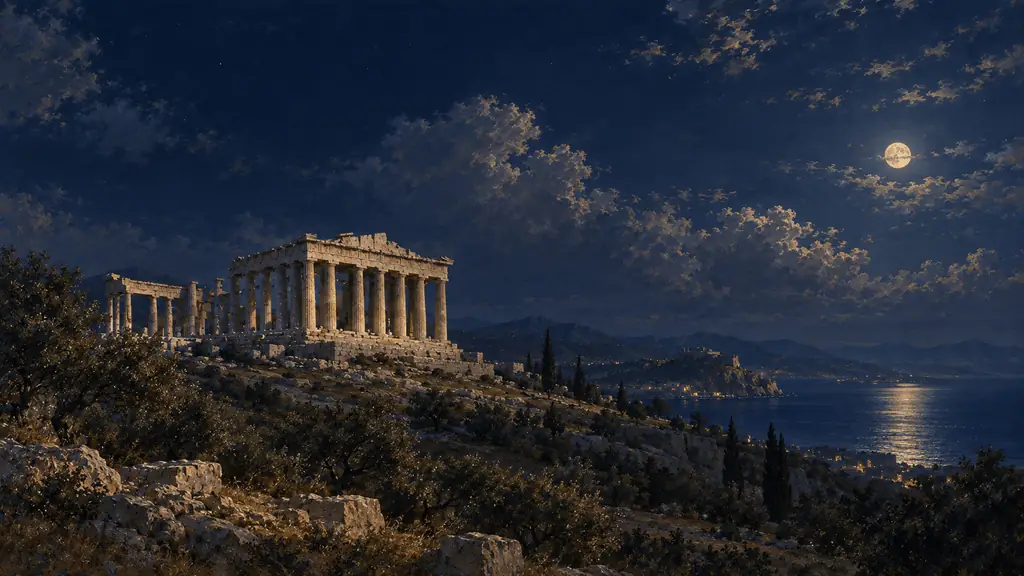
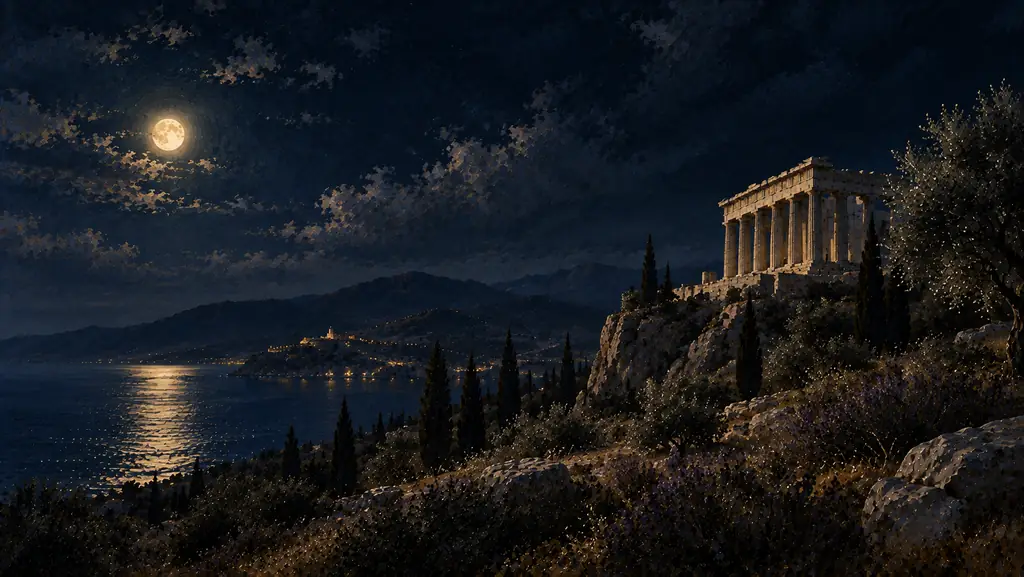
feat(home): fotografia por tema, contêineres alinhados e título reescrito
**A fotografia** vira duas versões da mesma cena: a noturna no tema escuro, a
diurna no claro. A troca é por background-image em CSS, e não por duas <img> com
uma escondida, porque o tema aqui é classe no <html> e não media query — duas
<img> baixariam as duas, 380 KB para mostrar metade. Conferido: cada tema pede
só o seu arquivo.

O texto seguiu junto. A foto diurna tem céu azul e mar brilhando, onde branco não
se lê: no claro o véu vira branco e o texto escurece.

**O alinhamento** que faltava. As grades iam de 208 a 1232 e a prosa parava em
880, o que deixava metade das seções de privacidade e de perguntas vazia. Agora
a prosa corre em duas colunas e a FAQ ocupa a largura inteira, como na
referência. Medido: as quatro seções abrem em 208 e fecham em 1232.

Duas colunas, e não um parágrafo mais largo, porque medida de leitura importa —
linha de 1024px cansa.

**O título** foi reescrito com a skill humanizer, que o autor pediu para instalar.
"Ferramentas que fazem o trabalho e somem" e "Tools that do the job and get out
of the way" tinham dois defeitos que a skill nomeia: a fórmula de tagline de SaaS,
e nenhuma informação — o leitor terminava a frase sem saber nada. A seção logo
abaixo ainda repetia a ideia com "Ferramenta que abre, faz e sai da frente".

Agora são duas frases curtas com um fato cada: "Nove ferramentas. Nenhuma quer
seu e-mail." O nove foi conferido contra ROTAS_PUBLICAS, e não há cadastro em
nenhuma delas. O travessão saiu dos dois subtítulos junto.

diff --git a/src/components/home/Hero.tsx b/src/components/home/Hero.tsx
@@ -48,40 +48,28 @@ export function Hero({
 
   return (
     <div className="relative">
-      {/* A fotografia e o que a escurece. `object-cover` com foco à direita
-          mantém a lua e o mar visíveis quando a tela estreita. */}
+      {/* A fotografia e o que a torna legível. Duas versões da mesma cena: a
+          noturna no tema escuro, a diurna no claro — a troca é por CSS, em
+          globals.css, para o navegador baixar só uma. */}
       <div aria-hidden="true" className="absolute inset-x-0 top-0 h-[760px] overflow-hidden sm:h-[820px]">
-        <picture>
-          <source media="(max-width: 640px)" srcSet="/hero-noite-p.webp" />
-          {/* eslint-disable-next-line @next/next/no-img-element */}
-          <img
-            src="/hero-noite.webp"
-            alt=""
-            width={1920}
-            height={1081}
-            fetchPriority="high"
-            decoding="async"
-            className="h-full w-full object-cover object-[70%_center]"
-          />
-        </picture>
-        {/* Três camadas, cada uma com um trabalho.
-            A vertical firma o topo, onde fica o cabeçalho, e o pé, de onde a
-            tela do produto emerge. A horizontal escurece só o lado esquerdo —
-            é onde o texto vive, e sem ela o subtítulo cai em cima das colunas
-            do templo e some. A última fecha na cor do fundo, para a fotografia
-            não terminar num corte reto. */}
-        <div className="absolute inset-0 bg-gradient-to-b from-[#0a1020]/75 via-[#0a1020]/25 to-[#0a1020]/90" />
-        <div className="absolute inset-0 bg-gradient-to-r from-[#0a1020]/85 via-[#0a1020]/35 to-transparent" />
+        <div className="hero-fundo h-full w-full" />
+        {/* O véu, e é aqui que os dois temas divergem de verdade.
+            No escuro o texto é branco e o véu é azul-noite. No claro a foto tem
+            céu azul e mar brilhante, onde branco não se lê: o véu vira branco e
+            o texto, escuro. O horizontal é o que importa, porque o texto mora à
+            esquerda; o vertical firma o topo e o pé, de onde a tela emerge. */}
+        <div className="absolute inset-0 bg-gradient-to-b from-white/70 via-white/30 to-white/85 dark:from-[#0a1020]/75 dark:via-[#0a1020]/25 dark:to-[#0a1020]/90" />
+        <div className="absolute inset-0 bg-gradient-to-r from-white/90 via-white/45 to-transparent dark:from-[#0a1020]/85 dark:via-[#0a1020]/35 dark:to-transparent" />
         <div className="absolute inset-x-0 bottom-0 h-56 bg-gradient-to-b from-transparent to-background" />
       </div>
 
       <div className="relative">
         <header className="mx-auto flex max-w-6xl items-center justify-between px-4 py-4 sm:px-8">
-          <Link href={inicio} className="flex items-center gap-2 text-white">
+          <Link href={inicio} className="flex items-center gap-2 text-zinc-900 dark:text-white">
             <MarcaGeradoor size={22} />
             <span className="font-logo text-base font-medium tracking-tight">Geradoor</span>
           </Link>
-          <div className="text-white">
+          <div className="text-zinc-900 dark:text-white">
             <ThemeToggle />
           </div>
         </header>
@@ -89,38 +77,38 @@ export function Hero({
         <div className="mx-auto max-w-6xl px-4 pb-10 pt-16 sm:px-8 sm:pb-14 sm:pt-24">
           <Link
             href={texto.aviso.href}
-            className="group inline-flex items-center gap-2 rounded-full border border-white/20 bg-white/[0.06] py-1 pe-2.5 ps-1.5 text-[13px] text-white/80 backdrop-blur transition-colors duration-150 hover:text-white focus-visible:outline-none focus-visible:ring-2 focus-visible:ring-white/60"
+            className="group inline-flex items-center gap-2 rounded-full border border-zinc-900/15 bg-white/50 py-1 pe-2.5 ps-1.5 text-[13px] text-zinc-700 backdrop-blur transition-colors duration-150 hover:text-zinc-900 focus-visible:outline-none focus-visible:ring-2 focus-visible:ring-zinc-400 dark:border-white/20 dark:bg-white/[0.06] dark:text-white/80 dark:hover:text-white dark:focus-visible:ring-white/60"
           >
             <EtiquetaNovo idioma={idioma} />
             <span className="truncate">{texto.aviso.texto}</span>
             <ArrowRight className="h-3.5 w-3.5 shrink-0 transition-transform duration-200 group-hover:translate-x-0.5" />
           </Link>
 
-          <h1 className="mt-6 max-w-3xl text-balance text-[34px] font-medium leading-[1.06] tracking-[-0.03em] text-white sm:text-[56px]">
+          <h1 className="mt-6 max-w-3xl text-balance text-[34px] font-medium leading-[1.06] tracking-[-0.03em] text-zinc-900 sm:text-[56px] dark:text-white">
             {texto.titulo.antes}
             <br />
-            <span className="text-white/55">{texto.titulo.destaque}</span>
+            <span className="text-zinc-900/45 dark:text-white/55">{texto.titulo.destaque}</span>
           </h1>
 
-          <p className="mt-5 max-w-lg text-balance text-[15px] leading-relaxed text-white/65">{texto.subtitulo}</p>
+          <p className="mt-5 max-w-lg text-balance text-[15px] leading-relaxed text-zinc-600 dark:text-white/65">{texto.subtitulo}</p>
 
           <div className="mt-8 flex flex-wrap items-center gap-2.5">
             <Link
               href={texto.acao.href}
-              className="inline-flex items-center gap-2 rounded-full bg-white px-4 py-2.5 text-sm font-medium text-zinc-900 transition-opacity duration-150 hover:opacity-90 focus-visible:outline-none focus-visible:ring-2 focus-visible:ring-white/60"
+              className="inline-flex items-center gap-2 rounded-full bg-zinc-900 px-4 py-2.5 text-sm font-medium text-white transition-opacity duration-150 hover:opacity-90 focus-visible:outline-none focus-visible:ring-2 focus-visible:ring-zinc-500 dark:bg-white dark:text-zinc-900 dark:focus-visible:ring-white/60"
             >
               {texto.acao.texto}
               <ArrowRight className="h-3.5 w-3.5" />
             </Link>
             <Link
               href={texto.secundaria.href}
-              className="inline-flex items-center rounded-full border border-white/25 px-4 py-2.5 text-sm text-white/85 transition-colors duration-150 hover:border-white/50 hover:text-white focus-visible:outline-none focus-visible:ring-2 focus-visible:ring-white/60"
+              className="inline-flex items-center rounded-full border border-zinc-900/20 px-4 py-2.5 text-sm text-zinc-700 transition-colors duration-150 hover:border-zinc-900/50 hover:text-zinc-900 focus-visible:outline-none focus-visible:ring-2 focus-visible:ring-zinc-400 dark:border-white/25 dark:text-white/85 dark:hover:border-white/50 dark:hover:text-white dark:focus-visible:ring-white/60"
             >
               {texto.secundaria.texto}
             </Link>
           </div>
 
-          <p className="mt-4 text-[13px] text-white/45">{texto.nota}</p>
+          <p className="mt-4 text-[13px] text-zinc-500 dark:text-white/45">{texto.nota}</p>
         </div>
 
         {children && <div className="mx-auto max-w-6xl px-4 sm:px-8">{children}</div>}
@@ -137,7 +125,7 @@ export function Hero({
  */
 export function TelaDoProduto({ children }: { children: React.ReactNode }) {
   return (
-    <div className="overflow-hidden rounded-xl border border-white/12 bg-zinc-950 shadow-[0_24px_80px_-12px_rgba(0,0,0,0.7)]">
+    <div className="overflow-hidden rounded-xl border border-zinc-900/10 bg-zinc-950 shadow-[0_24px_60px_-16px_rgba(0,0,0,0.35)] dark:border-white/12 dark:shadow-[0_24px_80px_-12px_rgba(0,0,0,0.7)]">
       {children}
     </div>
   );

diff --git a/src/components/shell/ConteudoDaFerramenta.tsx b/src/components/shell/ConteudoDaFerramenta.tsx
@@ -43,6 +43,7 @@ export function ConteudoDaFerramenta({
   idioma = "pt-BR",
   nivel = 2,
   semTituloDaFaq = false,
+  emColunas = false,
 }: {
   secoes: SecaoDaFerramenta[];
   faq: PerguntaDaFerramenta[];
@@ -60,6 +61,15 @@ export function ConteudoDaFerramenta({
   nivel?: 2 | 3;
   /** Esconde o título "Perguntas frequentes": a seção que envolve já o diz. */
   semTituloDaFaq?: boolean;
+  /**
+   * Distribui as seções em colunas, em vez de empilhá-las numa coluna estreita.
+   *
+   * Na home as grades vão até a borda do contêiner e a prosa parava bem antes,
+   * o que deixava metade da seção vazia. Em duas colunas o texto ocupa a mesma
+   * largura das grades e cada coluna mantém medida de leitura — que é o motivo
+   * de não bastar alargar o parágrafo.
+   */
+  emColunas?: boolean;
 }) {
   const t = TEXTOS[idioma];
   const Titulo = nivel === 3 ? "h3" : "h2";
@@ -87,7 +97,13 @@ export function ConteudoDaFerramenta({
 
       {/* Aninhado numa seção da home, o bloco alinha à esquerda com o título
           que o antecede; sozinho numa página de ferramenta, centraliza. */}
-      <div className={cn("flex max-w-2xl flex-col gap-10", nivel === 3 ? "" : "mx-auto")}>
+      <div
+        className={cn(
+          "flex flex-col gap-10",
+          nivel === 3 ? "" : "mx-auto max-w-2xl",
+          emColunas ? "gap-x-10 sm:grid sm:grid-cols-2 sm:items-start" : "max-w-2xl"
+        )}
+      >
         {secoes.map(({ titulo, conteudo }) => (
           <div key={titulo}>
             <Titulo className={classeDoTitulo}>{titulo}</Titulo>
@@ -98,14 +114,14 @@ export function ConteudoDaFerramenta({
         ))}
 
         {faq.length > 0 && (
-          <div>
+          <div className={cn(emColunas && "sm:col-span-2")}>
             {!semTituloDaFaq && <Titulo className={classeDoTitulo}>{t.perguntasFrequentes}</Titulo>}
             <FaqAcordeao perguntas={faq} />
           </div>
         )}
 
         {relacionadas.length > 0 && (
-          <div>
+          <div className={cn(emColunas && "sm:col-span-2")}>
             <Titulo className={classeDoTitulo}>{t.vejaTambem}</Titulo>
             <ul className="mt-3 flex flex-col gap-2">
               {relacionadas.map(({ href, label, descricao }) => (

diff --git a/src/components/home/Home.tsx b/src/components/home/Home.tsx
@@ -159,8 +159,8 @@ export function Home({ idioma, conteudo }: { idioma: Idioma; conteudo: ConteudoD
             {conteudo.detalhe.apoio}
           </CabecalhoDaSecao>
         </div>
-        <div className="mx-auto max-w-5xl">
-          <ConteudoDaFerramenta secoes={conteudo.secoes} faq={[]} veja={[]} idioma={idioma} nivel={3} />
+        <div className="mx-auto max-w-5xl pt-10">
+          <ConteudoDaFerramenta secoes={conteudo.secoes} faq={[]} veja={[]} idioma={idioma} nivel={3} emColunas />
         </div>
       </section>
 
@@ -176,8 +176,8 @@ export function Home({ idioma, conteudo }: { idioma: Idioma; conteudo: ConteudoD
             {conteudo.perguntas.apoio}
           </CabecalhoDaSecao>
         </div>
-        <div className="mx-auto max-w-5xl">
-          <ConteudoDaFerramenta secoes={[]} faq={conteudo.faq} veja={[]} idioma={idioma} nivel={3} semTituloDaFaq />
+        <div className="mx-auto max-w-5xl pt-10">
+          <ConteudoDaFerramenta secoes={[]} faq={conteudo.faq} veja={[]} idioma={idioma} nivel={3} semTituloDaFaq emColunas />
         </div>
       </section>
 

diff --git a/src/app/globals.css b/src/app/globals.css
@@ -586,3 +586,33 @@ html:not(.dark) .dialkit-root {
     animation: none;
   }
 }
+
+/*
+ * A fotografia da abertura, uma por tema.
+ *
+ * Vai como `background-image`, e não num `<img>`, por um motivo de bytes: o
+ * tema aqui é uma classe no `<html>`, não uma media query, então duas `<img>`
+ * com uma escondida por CSS baixariam as duas — 380 KB para mostrar metade. Com
+ * background-image o navegador busca só a regra que venceu.
+ *
+ * A versão estreita é servida abaixo de 640px, onde a larga seria desperdício.
+ */
+.hero-fundo {
+  background-image: url("/hero-dia-p.webp");
+  background-size: cover;
+  background-position: 70% center;
+}
+
+.dark .hero-fundo {
+  background-image: url("/hero-noite-p.webp");
+}
+
+@media (min-width: 641px) {
+  .hero-fundo {
+    background-image: url("/hero-dia.webp");
+  }
+
+  .dark .hero-fundo {
+    background-image: url("/hero-noite.webp");
+  }
+}

diff --git a/src/app/conteudo.tsx b/src/app/conteudo.tsx
@@ -140,9 +140,9 @@ const DESTAQUE = ROTAS_PUBLICAS.find((rota) => rota.novo) ?? ROTAS_PUBLICAS[0];
 export const HOME: ConteudoDaHome = {
   hero: {
     aviso: { texto: DESTAQUE.descricao, href: DESTAQUE.href },
-    titulo: { antes: "Ferramentas que fazem o", destaque: "trabalho e somem" },
+    titulo: { antes: "Nove ferramentas.", destaque: "Nenhuma quer seu e-mail." },
     subtitulo:
-      "Recorte de imagem, vetorização, QR Code e dados de teste — a maior parte sem nunca enviar o arquivo para lugar nenhum.",
+      "Recorte de imagem, vetorização, QR Code e dados de teste. A maior parte roda dentro do seu navegador, sem enviar o arquivo.",
     acao: { texto: "Abrir o vetorizador", href: "/vetorizador" },
     secundaria: { texto: "Ver todas as ferramentas", href: "#ferramentas" },
     nota: "Grátis, sem cadastro e sem marca d'água.",

diff --git a/src/app/en/conteudo.tsx b/src/app/en/conteudo.tsx
@@ -124,9 +124,9 @@ const DESTAQUE = traduzir(ROTAS_PUBLICAS.find((r) => r.novo) ?? ROTAS_PUBLICAS[0
 export const HOME: ConteudoDaHome = {
   hero: {
     aviso: { texto: DESTAQUE.descricao, href: DESTAQUE.href },
-    titulo: { antes: "Tools that do the job", destaque: "and get out of the way" },
+    titulo: { antes: "Nine tools.", destaque: "None wants your email." },
     subtitulo:
-      "Background removal, vectorizing, QR Codes and test data — most of it without ever uploading your file.",
+      "Background removal, vectorizing, QR Codes and test data. Most of it runs inside your browser, with nothing uploaded.",
     acao: { texto: "Open the vectorizer", href: "/en/vectorizer" },
     secundaria: { texto: "See every tool", href: "#ferramentas" },
     nota: "Free, no sign-up and no watermark.",
